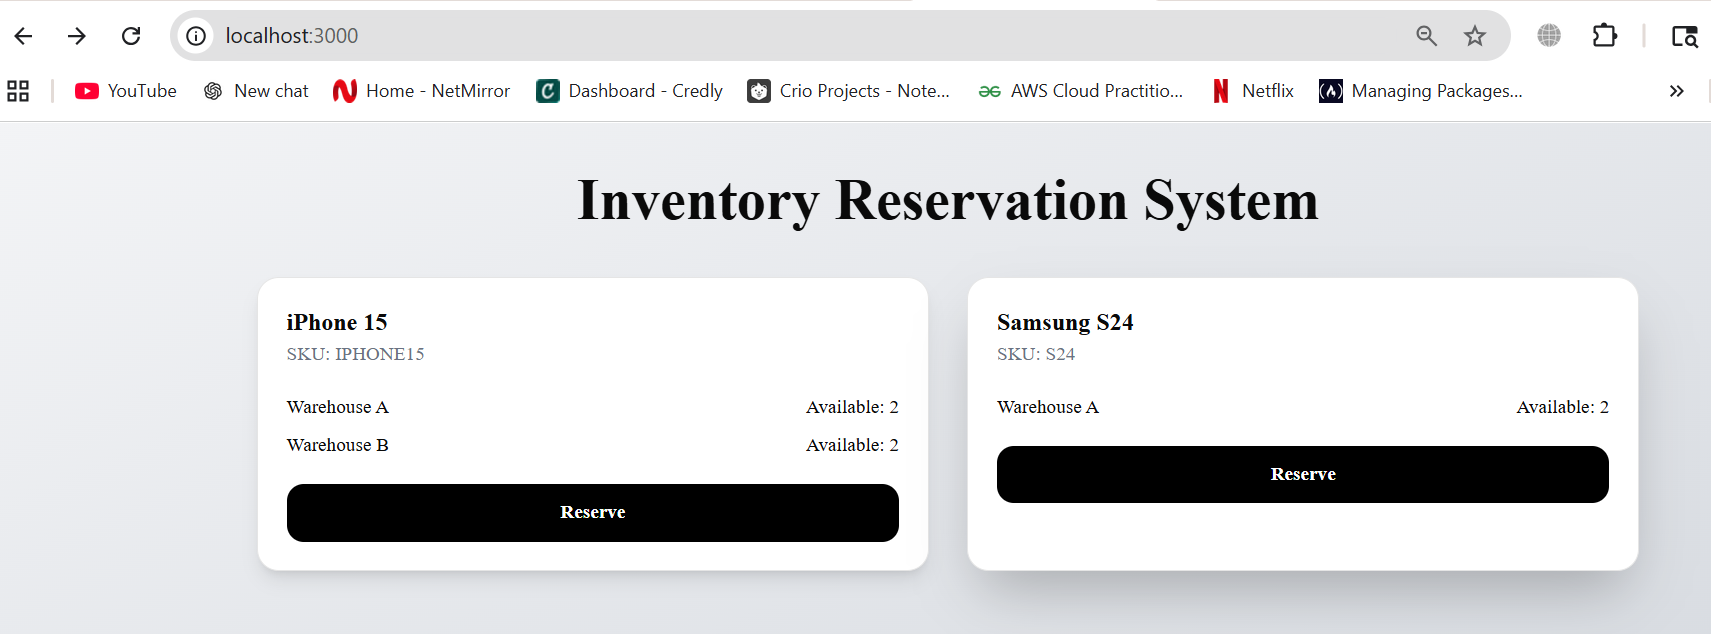
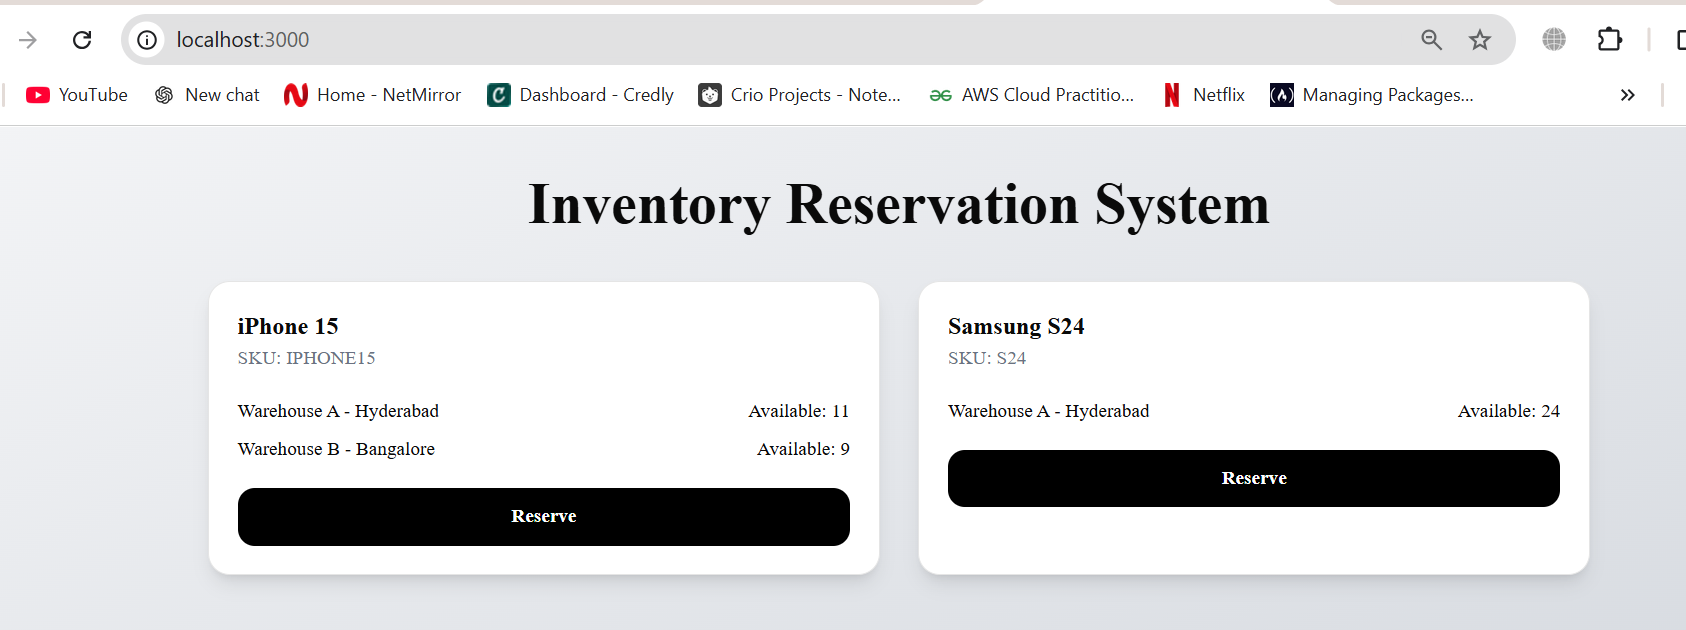
final typing fix

diff --git a/app/page.tsx b/app/page.tsx
@@ -1,10 +1,15 @@
 import ProductCard from "@/components/ProductCard";
 import { prisma } from "@/lib/prisma";
 
+export const dynamic = "force-dynamic";
+
 export default async function Home() {
 
-  const products =
-    await prisma.product.findMany({
+  let products: any[] = [];
+
+  try {
+
+    products = await prisma.product.findMany({
       include: {
         stocks: {
           include: {
@@ -13,6 +18,11 @@ export default async function Home() {
         },
       },
     });
+
+  } catch (error) {
+
+    console.error(error);
+  }
 
   return (
 
@@ -28,16 +38,14 @@ export default async function Home() {
 
         <div className="grid grid-cols-1 md:grid-cols-2 gap-8">
 
-          {products.map(
-            (product: any) => (
+          {products.map((product: any) => (
 
-              <ProductCard
-                key={product.id}
-                product={product}
-              />
+            <ProductCard
+              key={product.id}
+              product={product}
+            />
 
-            )
-          )}
+          ))}
 
         </div>
 